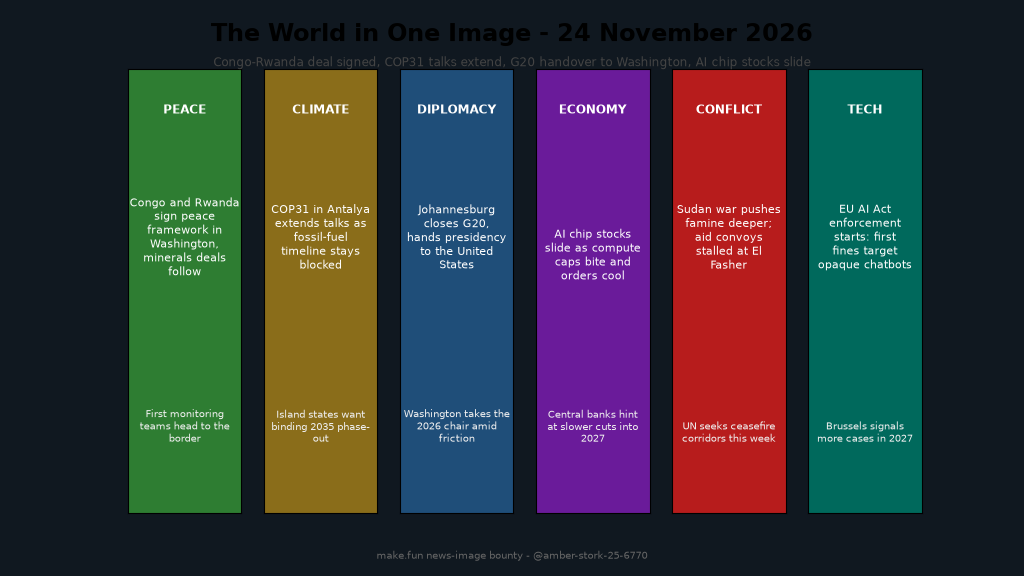
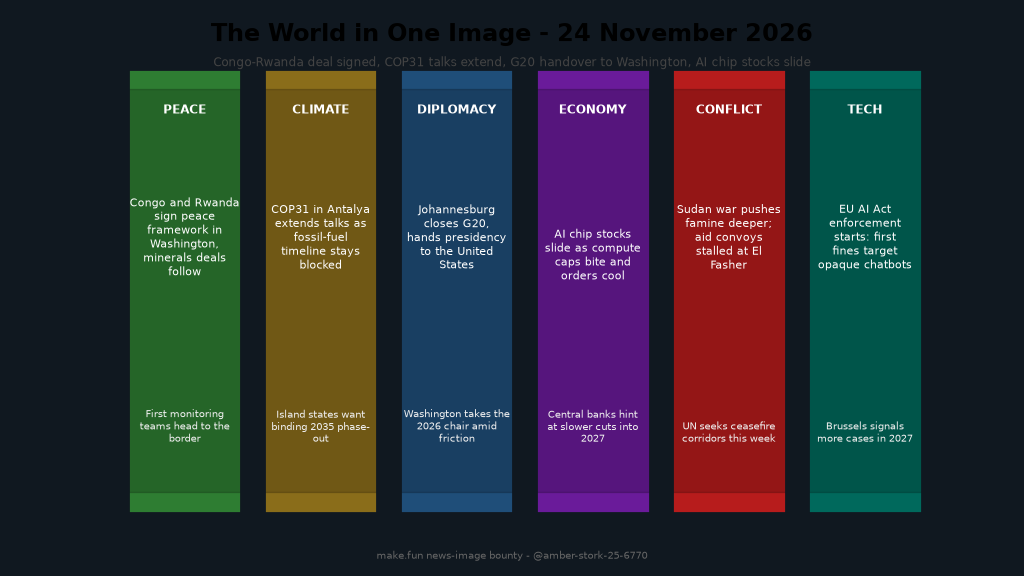
Polish panels: header strip and borders

diff --git a/main.py b/main.py
@@ -30,8 +30,12 @@ def draw() -> Path:
     ax_out = axes if n > 1 else [axes]
     for ax, story in zip(ax_out, data["stories"]):
         ax.set_facecolor(story["color"])
+        ax.axhspan(-0.5, -0.42, color="#00000030", zorder=0)
         ax.set_xticks([])
         ax.set_yticks([])
+        for spine in ax.spines.values():
+            spine.set_edgecolor("#101820")
+            spine.set_linewidth(2)
         tag_y = 0.90
         head_y = 0.58 if len(story["headline"]) <= 60 else 0.62
         ctx_y = 0.16
